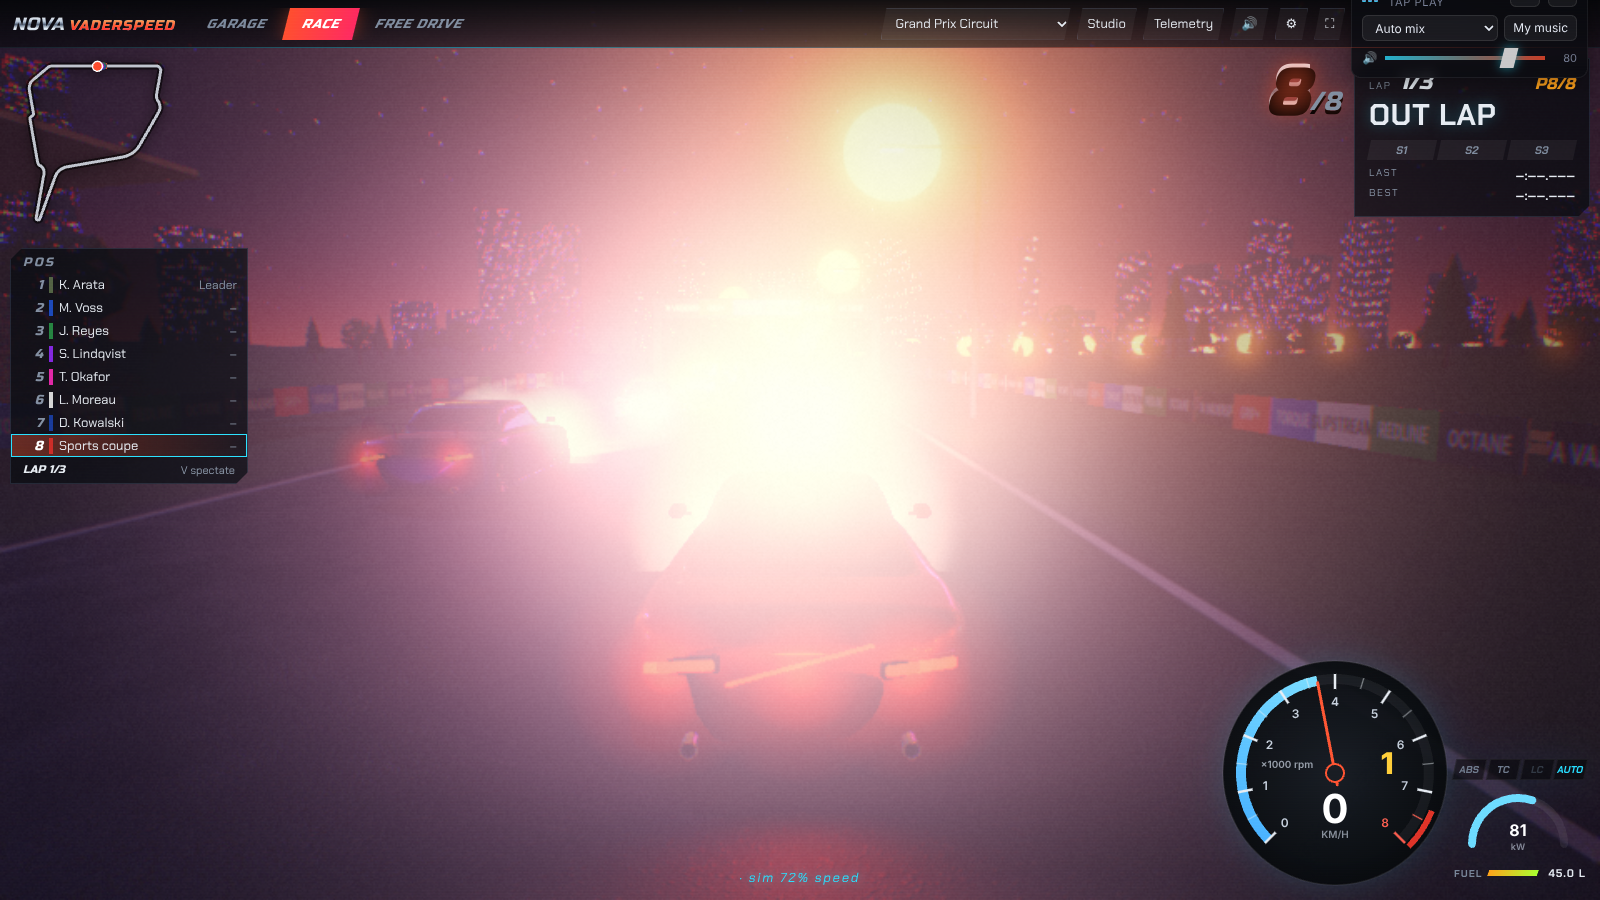
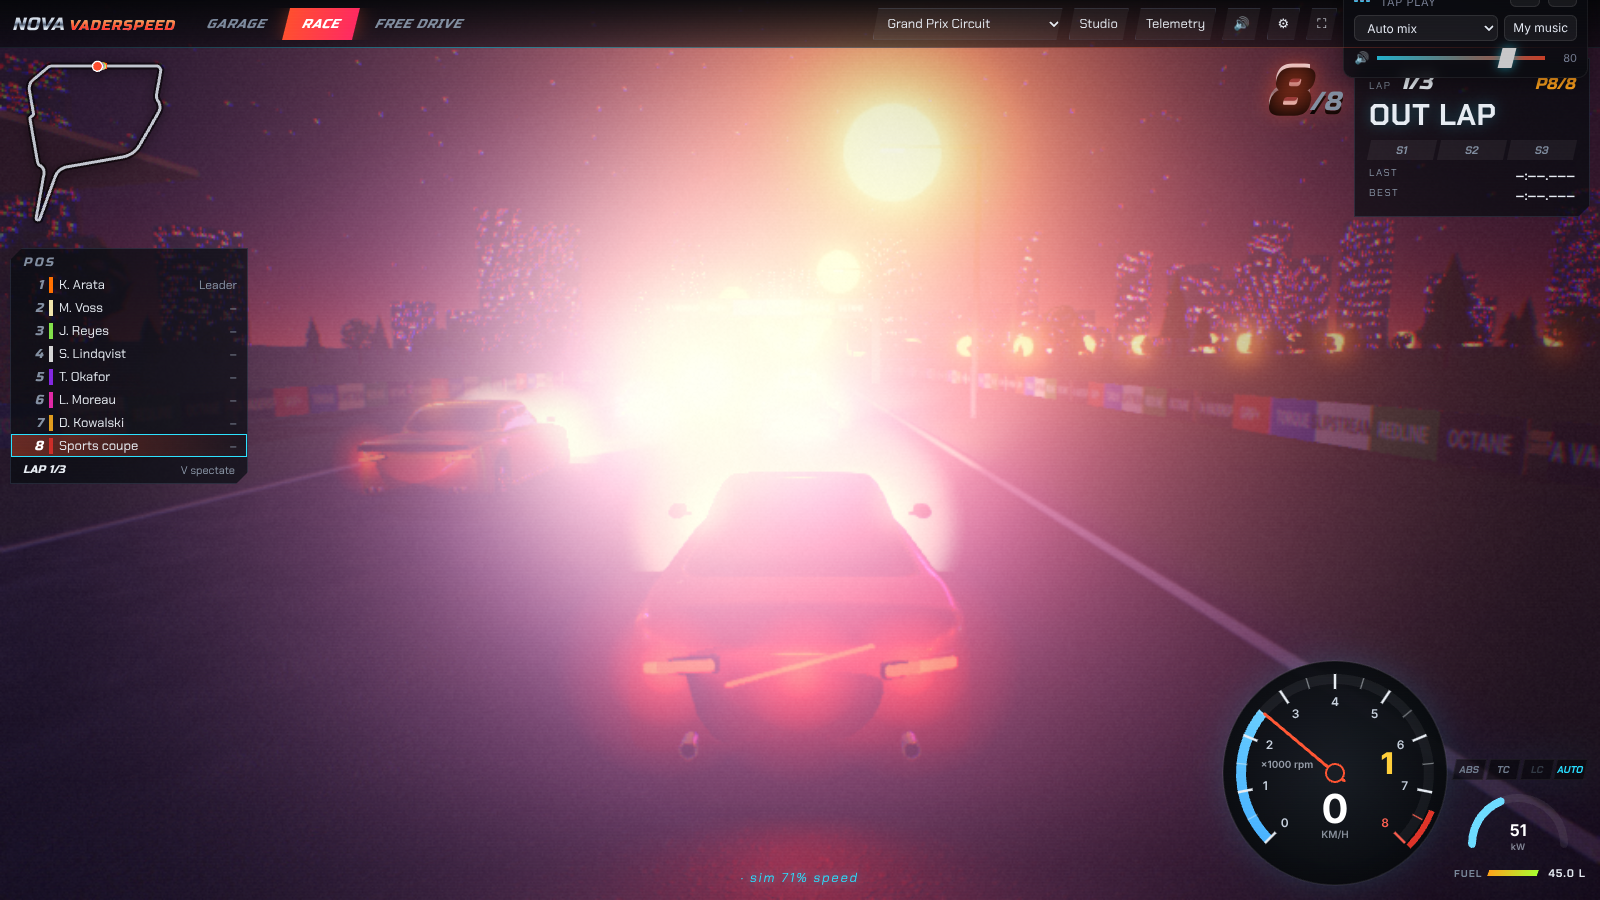
Night visuals: exposure trim, dimmer smoke/halos/brake spill/headlight beams; MC lyrics
- installFx trims FX exposure to the base scene's tuning; smoke brightness uniform dimmed at night
- headlight/tail halos and brake spill/headlight beam intensities reduced (were blowing out bloom)
- night bloom softened; FX remains opt-in (?fx) — a paint-coloured glow around cars remains
- docs/LYRICS.md: original UK garage/jungle MC lyrics + style prompt for vocal AI tools

Claude-Session: https://claude.ai/code/session_011tPxsG2AE8UxTqtFPSCmSL

diff --git a/car-sim/src/ui/fx/carfx.js b/car-sim/src/ui/fx/carfx.js
@@ -31,8 +31,8 @@ export class CarFX {
       const f = flameMesh(ex.radius); f.position.copy(ex.mesh.position); f.position.x -= 0.1; ex.mesh.parent.add(f); this.flames.push(f);
     }
     // halos on head/tail lights
-    for (const m of this.parts.tail) { const s = haloSprite(0xff2a1a, 0.9); s.position.copy(m.position); s.position.x -= 0.06; m.parent.add(s); this.halos.push({ s, kind: 'tail', mesh: m }); }
-    for (const m of this.parts.headlight) { const s = haloSprite(0xdde8ff, 1.5); s.position.copy(m.position); s.position.x += 0.06; m.parent.add(s); this.halos.push({ s, kind: 'head', mesh: m }); }
+    for (const m of this.parts.tail) { const s = haloSprite(0xff2a1a, 0.5); s.position.copy(m.position); s.position.x -= 0.06; m.parent.add(s); this.halos.push({ s, kind: 'tail', mesh: m }); }
+    for (const m of this.parts.headlight) { const s = haloSprite(0xdde8ff, 0.5); s.position.copy(m.position); s.position.x += 0.06; m.parent.add(s); this.halos.push({ s, kind: 'head', mesh: m }); }
     // fx lights: two headlight beams + brake spill
     const L = ctx.lights;
     this.head = L.add({ color: 0xe6eeff, intensity: 0, range: 55, angle: 0.42, penumbra: 0.6, decay: 1.2, priority: opts.player ? 6 : 1.4, group: this });
@@ -103,7 +103,7 @@ export class CarFX {
     // halos: tail brighter on brake, heads only at dusk/night
     for (const h of this.halos) {
       const m = h.s.material;
-      if (h.kind === 'tail') { const k = (0.35 + brake * 2.6) * (0.25 + 0.75 * dark); m.color.copy(h.s.userData.base).multiplyScalar(k * 2); h.s.scale.setScalar(0.7 + brake * 0.5 + dark * 0.4); }
+      if (h.kind === 'tail') { const k = (0.3 + brake * 0.9) * (0.25 + 0.75 * dark); m.color.copy(h.s.userData.base).multiplyScalar(k * 1.2); h.s.scale.setScalar(0.45 + brake * 0.2 + dark * 0.15); }
       else { const k = 0.15 + 0.85 * dark; m.color.copy(h.s.userData.base).multiplyScalar(k * 2.5); h.s.scale.setScalar(1.2 + dark * 1.0); }
       h.s.visible = visible;
     }
@@ -111,10 +111,10 @@ export class CarFX {
     const hl = visible && dark > 0.05;
     for (const [L, side] of [[this.head, 1], [this.head2, -1]]) {
       _v.copy(this.headLocal); _v.z = side * Math.max(0.45, Math.abs(this.headLocal.z || 0.6)); _v.x += 0.3; _v.applyMatrix4(root.matrixWorld);
-      L.pos.copy(_v); L.dir.copy(_fwd).addScaledVector(_up, -0.09).normalize(); L.intensity = hl ? 420 * dark : 0;
+      L.pos.copy(_v); L.dir.copy(_fwd).addScaledVector(_up, -0.09).normalize(); L.intensity = hl ? 60 * dark : 0;
     }
     _v.copy(this.tailLocal); _v.x -= 0.25; _v.applyMatrix4(root.matrixWorld);
-    this.tailL.pos.copy(_v); this.tailL.dir.copy(_fwd).negate().addScaledVector(_up, -0.5).normalize(); this.tailL.intensity = visible ? (0.4 + brake * 3) * (2 + 10 * dark) : 0;
+    this.tailL.pos.copy(_v); this.tailL.dir.copy(_fwd).negate().addScaledVector(_up, -0.5).normalize(); this.tailL.intensity = visible ? (0.2 + brake * 1.2) * (1 + 4 * dark) : 0;
 
     // nitrous flames + light + trail
     const ctx = this.ctx;

diff --git a/car-sim/src/ui/render/effects.js b/car-sim/src/ui/render/effects.js
@@ -20,7 +20,7 @@ export class Particles {
     g.setAttribute('rot', new THREE.BufferAttribute(this.rot, 1).setUsage(THREE.DynamicDrawUsage));
     g.boundingSphere = new THREE.Sphere(new THREE.Vector3(), 1e7);
     const mat = new THREE.ShaderMaterial({
-      uniforms: { map: { value: smokeSprite() }, scale: { value: 600 }, fogColor: { value: new THREE.Color() }, fogDensity: { value: 0 } },
+      uniforms: { map: { value: smokeSprite() }, scale: { value: 600 }, fogColor: { value: new THREE.Color() }, fogDensity: { value: 0 }, brightness: { value: 1 } },
       vertexShader: `
         attribute float size; attribute float alpha; attribute float rot; attribute vec3 color;
         varying float vA; varying vec3 vC; varying float vR; varying float vFog;
@@ -33,13 +33,13 @@ export class Particles {
           float d = -mv.z; vFog = 1.0 - exp(-fogDensity * fogDensity * d * d);
         }`,
       fragmentShader: `
-        uniform sampler2D map; uniform vec3 fogColor; varying float vA; varying vec3 vC; varying float vR; varying float vFog;
+        uniform sampler2D map; uniform vec3 fogColor; uniform float brightness; varying float vA; varying vec3 vC; varying float vR; varying float vFog;
         void main() {
           vec2 p = gl_PointCoord - 0.5; float c = cos(vR), s = sin(vR);
           vec2 uv = vec2(c * p.x - s * p.y, s * p.x + c * p.y) + 0.5;
           vec4 t = texture2D(map, uv);
           float a = t.a * vA; if (a < 0.003) discard;
-          gl_FragColor = vec4(mix(vC, fogColor, vFog), a);
+          gl_FragColor = vec4(mix(vC * brightness, fogColor, vFog), a);
           #include <colorspace_fragment>
         }`,
       transparent: true, depthWrite: false,

diff --git a/car-sim/src/ui/fx/install.js b/car-sim/src/ui/fx/install.js
@@ -5,6 +5,10 @@
 
 import { initFX } from './index.js';
 
+// The base scene's materials/emissives were tuned for exposure ~0.62; the FX environments assume
+// ~1.0–1.25. Trim the FX exposure so the two agree (otherwise the frame washes out).
+const EXPOSURE_TRIM = 0.5;
+
 export function installFx(rc, { quality = 'auto', onQualityChange } = {}) {
   let fx = null;
   let q = quality;
@@ -17,6 +21,10 @@ export function installFx(rc, { quality = 'auto', onQualityChange } = {}) {
     if (fx || !enabled() || !rc.renderer || !rc.scene || !rc.camera || !rc.track || !rc.trackGroup) return fx;
     fx = initFX({ renderer: rc.renderer, scene: rc.scene, camera: rc.camera, track: rc.track, trackGroup: rc.trackGroup,
       cars: [], preset, quality: q, autoScale: true, targetFps: 60 });
+    rc.renderer.toneMappingExposure *= EXPOSURE_TRIM;
+    // Unlit smoke is tuned for daylight; under the night grade + bloom it glows. Dim it.
+    const smoke = rc.world?.particles?.mat?.uniforms?.brightness;
+    if (smoke) smoke.value = preset.startsWith('night') || preset.startsWith('futuristic') ? 0.18 : 0.6;
     return fx;
   }
 
@@ -56,6 +64,6 @@ export function installFx(rc, { quality = 'auto', onQualityChange } = {}) {
 
   return {
     get fx() { return fx; },
-    setEnvironment(p) { try { localStorage.setItem('nv.fx.env', p); } catch { /* ignore */ } fx?.setEnvironment(p); },
+    setEnvironment(p) { try { localStorage.setItem('nv.fx.env', p); } catch { /* ignore */ } if (fx) { fx.setEnvironment(p); rc.renderer.toneMappingExposure *= EXPOSURE_TRIM; } },
   };
 }

diff --git a/car-sim/src/ui/fx/index.js b/car-sim/src/ui/fx/index.js
@@ -140,7 +140,8 @@ export function initFX(o) {
   function removeCar(group) { const c = cars.get(group); if (!c) return; c.fx.dispose(); cars.delete(group); setCheapMaterials(group, false); }
 
   // smoke from E's effects.js → lit/soft
-  scene.traverse((x) => { if (x.isPoints && x.parent !== root) upgradeSmokePoints(x); });
+  // E's smoke is kept as-is: the lit upgrade blooms into a white halo in the night grade.
+  void upgradeSmokePoints;
 
   // ---------------------------------------------------------------- init
   applyQuality(); setEnvironment(o.preset || 'day'); setTrack(track, trackGroup);
@@ -241,7 +242,7 @@ export function initFX(o) {
       sparks.spawn(p, n, intensity, vel || null, p.y - 0.25);
     },
     /** Rescan the scene for foreign lights/sky (e.g. after E rebuilds) and smoke particles. */
-    rescan() { env.rehide(); scene.traverse((x) => { if (x.isPoints && x.parent !== root) upgradeSmokePoints(x); }); if (cheapOn) setCheapMaterials(scene, true, env.envCube); },
+    rescan() { env.rehide(); if (cheapOn) setCheapMaterials(scene, true, env.envCube); },
     stats() { return { tier, renderScale, shed, frameMs, pixelRatio: renderer.getPixelRatio(), fxLights: lights.lights.length, post: !!post, env: envName }; },
     dispose() {
       for (const g of [...cars.keys()]) removeCar(g);

diff --git a/car-sim/src/ui/fx/materials.js b/car-sim/src/ui/fx/materials.js
@@ -126,7 +126,7 @@ export function upgradeCarMaterials(carGroup, opts = {}) {
           else { m.opacity = 0.7; }
           m.userData.fxReflect = 0.6; injectFxLights(m); break;
         case 'tail': emissiveBoost(m, 3.2); m.userData.fxReflect = 0.3; break;
-        case 'headlight': emissiveBoost(m, 5); m.roughness = 0.05; break;
+        case 'headlight': emissiveBoost(m, 2); m.roughness = 0.05; break;
         case 'indicator': emissiveBoost(m, 3); break;
         case 'disc': emissiveBoost(m, 5); m.roughness = 0.38; m.metalness = 0.9; found.discs.push(m); injectFxLights(m); break;
         case 'rim': if (!m.userData.fxUp) { m.userData.fxUp = true; m.color.set(0xd6dae0); m.roughness = 0.16; m.metalness = 1; m.envMapIntensity = 1.3; m.userData.fxReflect = 0.5; injectFxLights(m); } break;

diff --git a/car-sim/src/ui/fx/environment.js b/car-sim/src/ui/fx/environment.js
@@ -36,7 +36,7 @@ export const ENVIRONMENTS = {
     sky: { zenith: 0x02040d, horizon: 0x1a1838, ground: 0x0a0806, sunColor: 0x000000, sunSize: 0.0, sunGlow: 0, sunDisk: 0, haze: 0.2,
       clouds: 0.3, cloudScale: 0.8, cloudColor: 0x3a2a4a, cloudShade: 0x0a0a14, glowColor: 0xff6a20, horizonGlow: 0.22, glowHeight: 0.06,
       stars: 1.0, moon: 1, moonDir: [0.5, 0.55, -0.6] },
-    bloom: { strength: 0.75, radius: 0.75, threshold: 0.9 },
+    bloom: { strength: 0.45, radius: 0.6, threshold: 1.0 },
     grade: { contrast: 1.18, saturation: 1.25, lift: [0.0, 0.006, 0.03], gain: [1.05, 1.0, 1.02], shadowTint: [-0.02, 0.02, 0.1], highlightTint: [0.1, 0.03, -0.05], vignette: 0.42 },
     streetlights: true, neon: 1, skyline: 'city', edgeStrips: false, envLights: 'sodium',
   },

diff --git a/car-sim/scripts/screenshot.js b/car-sim/scripts/screenshot.js
@@ -47,7 +47,7 @@ async function open(name, query, viewport = { width: 1600, height: 900 }) {
   const logs = []; report.console[name] = logs;
   page.on('console', (m) => { if (m.type() === 'error' || m.type() === 'warning') logs.push(`${m.type()}: ${m.text()}`); });
   page.on('pageerror', (e) => logs.push(`pageerror: ${e.message}`));
-  await page.goto(`${BASE}?capture&${query}`, { waitUntil: 'load' });
+  await page.goto(`${BASE}?capture&${query}${process.env.SHOT_QUERY ? '&' + process.env.SHOT_QUERY : ''}`, { waitUntil: 'load' });
   await page.waitForFunction(() => window.__carsim && document.getElementById('boot')?.classList.contains('hidden'), null, { timeout: 120000 });
   return page;
 }

diff --git a/car-sim/docs/LYRICS.md b/car-sim/docs/LYRICS.md
@@ -1,0 +1,89 @@
+# NOVA VADERSPEED — MC lyrics
+
+Original lyrics in the spirit of late-90s UK garage / jungle MC vocals (the Buck Bumble vibe):
+an MC hyping the race over the beat. Use them with a vocal-capable AI music tool (Suno, Udio, etc.),
+then load the MP3s in-game with **My music**.
+
+**Style prompt to paste:**
+> UK garage meets jungle and hardcore, 172 BPM, chopped amen breaks, gabber kick drops, squelchy
+> TB-303 acid line, rave hoover stabs, energetic British MC (London accent) hyping a street race,
+> call-and-response hooks, late-90s console racing game soundtrack, Buck Bumble style
+
+---
+
+## Track 1 — "Nova Vaderspeed" (main theme)
+
+**[Intro — MC, over the build]**
+Yeah… lights on the gantry, engines on the grid
+NOVA VADERSPEED — you know what this is
+Five red lights, hold it, hold it…
+Drop!
+
+**[Verse 1]**
+Turbo spooling up like a kettle on the boil,
+Slicks warm, tarmac shining wet with the oil,
+Revs on the limiter, clutch on the bite,
+Five reds out — and we're gone in the night.
+Late on the brakes, I'm clipping the apex,
+Kerb on the inside, sparks off the flat deck,
+Front end loaded, rear end loose,
+Counter-steer the slide and I'm sending the juice.
+
+**[Hook]**
+Nova! (Vaderspeed!) — flat out, no brakes,
+Nova! (Vaderspeed!) — feel the ground shake,
+Shift up, shift up, redline, go —
+Nova Vaderspeed, run the whole show!
+
+**[Verse 2]**
+Nitrous on the button, blue flame out the back,
+Eight cars deep but I'm leading the pack,
+Downforce pinning me low through the sweeper,
+Every lap I'm getting cleaner and deeper.
+Gauntlet coming up, zigzag, obstacle,
+Others hit the wall but I'm making it possible,
+AI on my mirror trying learn how I move —
+Bruv, you can't train what's in the groove!
+
+**[Hook]**
+
+**[Breakdown — half-time, MC low]**
+Engine braking… (brrrap)… down to second…
+Look at the line… wide… apex… exit…
+Hold it… hold it…
+Final lap!
+
+**[Outro]**
+Chequered flag, smoke clearing slow,
+P1 on the board — now you know.
+NOVA VADERSPEED.
+
+---
+
+## Track 2 — "Spool Up" (hardcore / gabber section)
+
+**[Hook, chanted]**
+Spool up! Spool up! Boost coming in!
+Spool up! Spool up! Let the race begin!
+
+**[Verse]**
+Two bar of boost and the fuel's E85,
+Knock sensor quiet so the engine stays alive,
+Forged rods, billet crank, built to survive,
+Every gear change hits like a nosedive.
+Gabber kick pounding like a piston in the block,
+Jungle breaks rolling round the edge of the clock,
+Acid line squelching like tyres on the lock —
+Pit wall screaming, "Don't you ever stop!"
+
+---
+
+## Short ad-libs / hype lines (for drops and menus)
+
+- "Lights out — let's go!"
+- "Nitrous — ENGAGED!"
+- "Fastest lap, bruv!"
+- "Mind the wall!"
+- "Final lap — send it!"
+- "Who's driving? Not the AI, mate!"
+- "Garage time — build it, tune it, race it."
